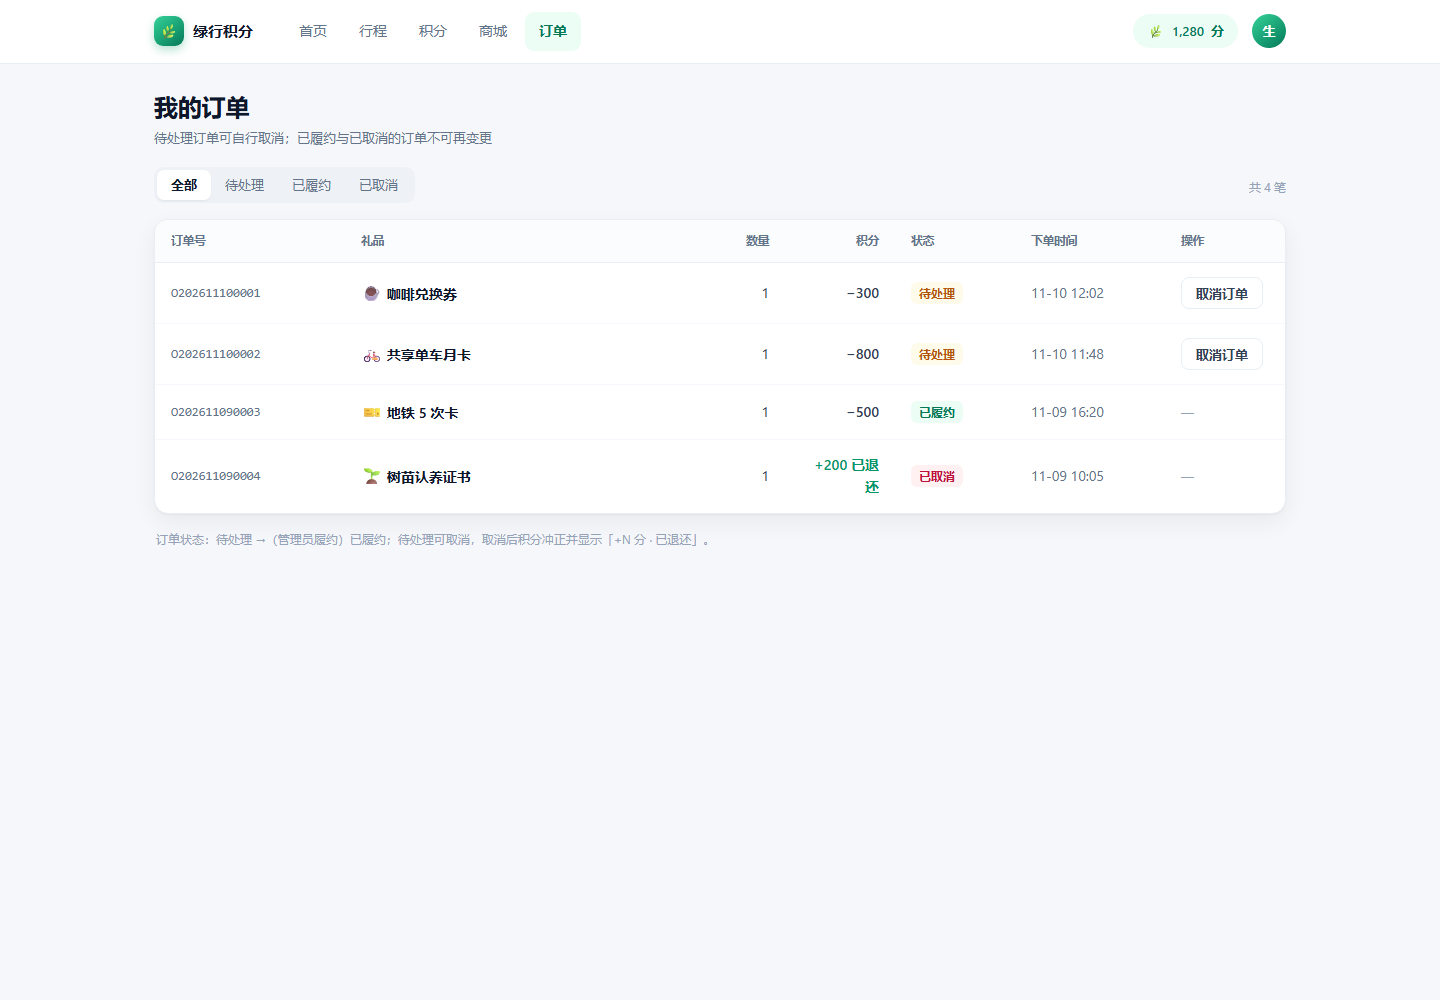
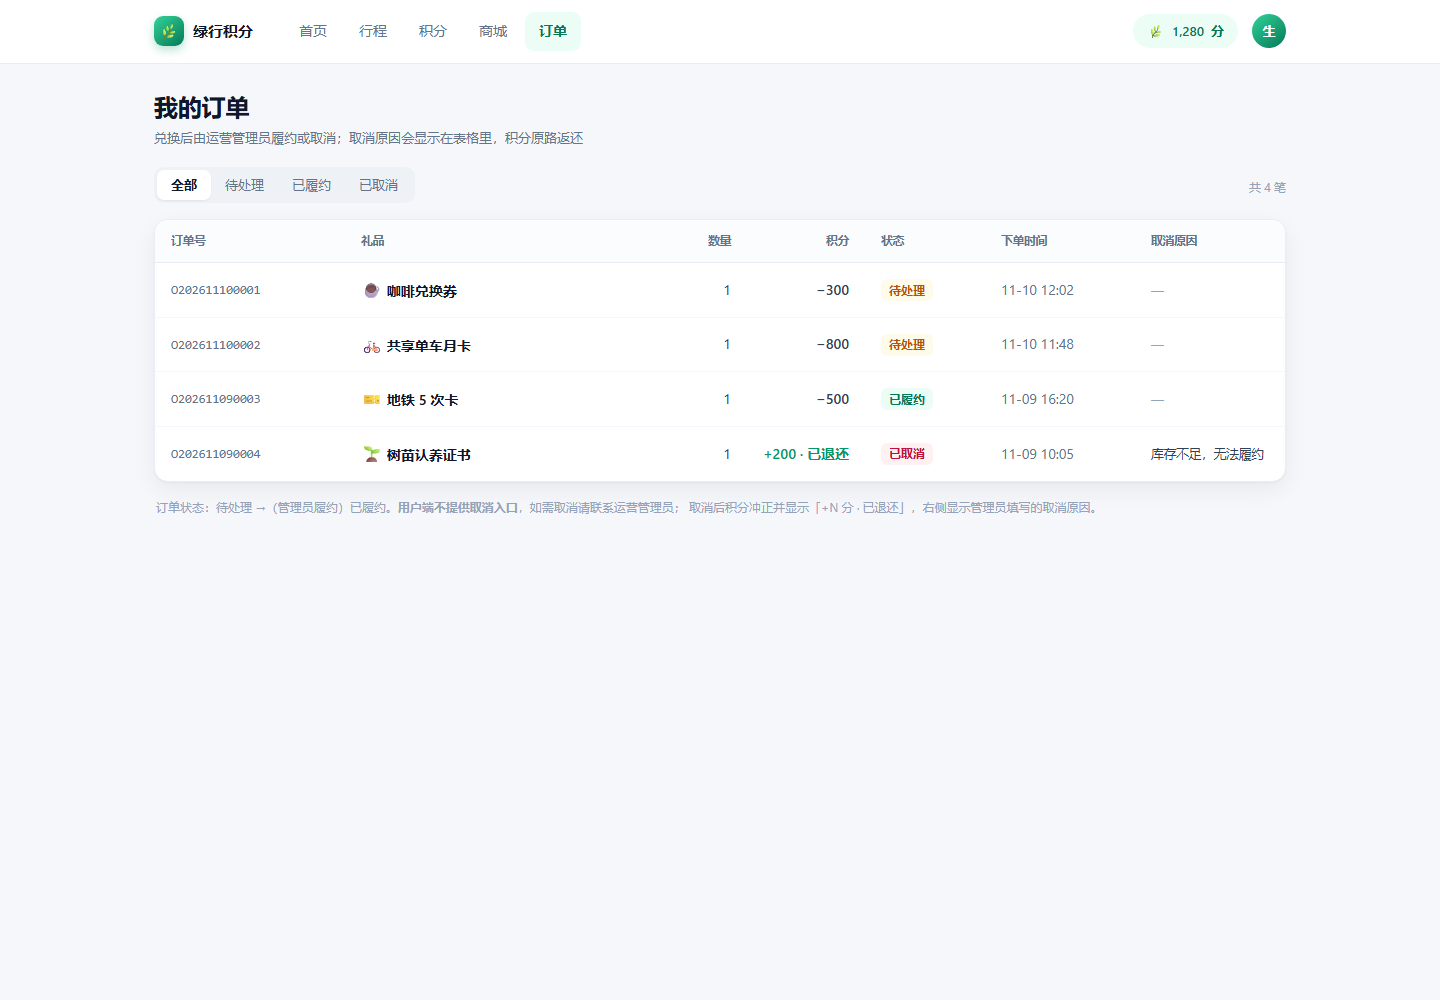
feat(ui): link trip list to detail, unify cancel flow, sync error codes
- trips.html: add 查看明细 entry per row and make 单号 clickable; trip-detail.html reads ?id= and echoes it
- orders (user): remove cancel entry, show admin-recorded cancelReason
- orders (admin): keep reason dropdown, add note input, require note when 其他, persist reason：note
- states.html / 06-states.md / 03-flows.md: POINTS_SHORT 40030, STOCK_SHORT 40901, PRODUCT_OFF_SHELF 40908, TripStatus FAILED, 50001 only for reconciliation; document list→detail loop
- regenerate five-state screenshots

diff --git a/prototype-web/admin/orders.html b/prototype-web/admin/orders.html
@@ -49,7 +49,7 @@
 
     <section class="card tight">
       <table class="table">
-        <thead><tr><th style="width:190px">订单号</th><th>用户</th><th>礼品</th><th class="r" style="width:100px">扣减积分</th><th style="width:110px">状态</th><th style="width:150px">下单时间</th><th style="width:170px">操作</th></tr></thead>
+        <thead><tr><th style="width:190px">订单号</th><th>用户</th><th>礼品</th><th class="r" style="width:100px">扣减积分</th><th style="width:150px">状态</th><th style="width:150px">下单时间</th><th style="width:170px">操作</th></tr></thead>
         <tbody id="rows"></tbody>
       </table>
     </section>
@@ -74,10 +74,10 @@
         <option>用户申请取消</option>
         <option>库存不足，无法履约</option>
         <option>礼品信息有误</option>
-        <option>其他（请在下方说明）</option>
+        <option>其他</option>
       </select>
-      <input class="input" id="reasonText" maxlength="100" placeholder="补充说明（选填，最多 100 字）" style="margin-top:10px">
-      <p class="hint" style="margin-top:8px">取消原因会写入订单详情，用户端可见；未选择原因不能提交。</p>
+      <input class="input" id="reasonText" maxlength="100" placeholder="补充说明（选择「其他」时必填，其余情况选填，最多 100 字）" style="margin-top:10px">
+      <p class="hint" style="margin-top:8px" id="reasonHint">取消原因与补充说明会一起写入订单详情，用户端可见；未选择原因不能提交。</p>
     </div>
   </div>
   <div class="modal-foot">
@@ -103,7 +103,7 @@ function render() {
       <td class="t-strong">${o.user}</td>
       <td>${o.icon} ${o.goods}</td>
       <td class="r num">${o.pts}</td>
-      <td>${stateTag(o.status)}</td>
+      <td>${stateTag(o.status)}${o.status === 'CANCELLED' && o.cancelReason ? `<div class="hint" style="margin-top:6px;max-width:150px;line-height:1.5">${o.cancelReason}</div>` : ''}</td>
       <td class="num" style="color:var(--ink-500)">${o.time}</td>
       <td>${o.status === 'CREATED'
         ? `<button class="btn btn-primary btn-sm" onclick="ask('${o.id}','FULFILLED')">履约</button>
@@ -128,14 +128,23 @@ function ask(id, act) {
   document.getElementById('reasonSel').value = '';
   document.getElementById('reasonText').value = '';
   ok.disabled = false;
+  document.getElementById('reasonHint').textContent = '取消原因与补充说明会一起写入订单详情，用户端可见；未选择原因不能提交。';
   openModal('act');
 }
 document.getElementById('actOk').addEventListener('click', () => {
   if (action === 'CANCELLED') {
-    const reason = document.getElementById('reasonSel').value;
+    const sel = document.getElementById('reasonSel');
+    const txt = document.getElementById('reasonText');
+    const reason = sel.value;
+    const note = txt.value.trim();
     if (!reason) {
-      document.getElementById('reasonSel').focus();
+      sel.focus();
       toast('请先选择取消原因');
+      return;
+    }
+    if (reason === '其他' && !note) {
+      txt.focus();
+      toast('选择「其他」时必须填写补充说明');
       return;
     }
   }
@@ -143,11 +152,24 @@ document.getElementById('actOk').addEventListener('click', () => {
   if (o) {
     o.status = action;
     o.statusName = action === 'FULFILLED' ? '已履约' : '已取消';
-    if (action === 'CANCELLED') o.cancelReason = document.getElementById('reasonSel').value;
+    if (action === 'CANCELLED') {
+      const reason = document.getElementById('reasonSel').value;
+      const note = document.getElementById('reasonText').value.trim();
+      o.cancelReason = note ? `${reason}：${note}` : reason;
+    }
   }
   closeModal('act');
   toast(action === 'FULFILLED' ? '订单已履约' : `订单已取消（${o ? o.cancelReason : ''}），积分已退还`);
   render();
+});
+document.getElementById('reasonSel').addEventListener('change', function () {
+  const isOther = this.value === '其他';
+  const hint = document.getElementById('reasonHint');
+  hint.textContent = isOther
+    ? '选择「其他」时必须填写补充说明，否则不能提交。'
+    : '取消原因与补充说明会一起写入订单详情，用户端可见；未选择原因不能提交。';
+  hint.style.color = isOther ? 'var(--rose-600)' : '';
+  if (isOther) document.getElementById('reasonText').focus();
 });
 document.getElementById('statusSel').addEventListener('change', render);
 document.getElementById('kw').addEventListener('input', render);

diff --git a/prototype-web/app/orders.html b/prototype-web/app/orders.html
@@ -25,7 +25,7 @@
   <div class="page-head">
     <div>
       <h1>我的订单</h1>
-      <p>待处理订单可自行取消；已履约与已取消的订单不可再变更</p>
+      <p>兑换后由运营管理员履约或取消；取消原因会显示在表格里，积分原路返还</p>
     </div>
   </div>
 
@@ -47,7 +47,7 @@
           <th style="width:190px">订单号</th><th>礼品</th>
           <th class="r" style="width:80px">数量</th><th class="r" style="width:110px">积分</th>
           <th style="width:120px">状态</th><th style="width:150px">下单时间</th>
-          <th style="width:120px">操作</th>
+          <th style="width:150px">取消原因</th>
         </tr>
       </thead>
       <tbody id="rows"></tbody>
@@ -55,26 +55,15 @@
   </div>
 
   <p class="hint" style="margin:16px 2px">
-    订单状态：待处理 →（管理员履约）已履约；待处理可取消，取消后积分冲正并显示「+N 分 · 已退还」。
+    订单状态：待处理 →（管理员履约）已履约。<b>用户端不提供取消入口</b>，如需取消请联系运营管理员；
+    取消后积分冲正并显示「+N 分 · 已退还」，右侧显示管理员填写的取消原因。
   </p>
 </main>
-
-<div class="mask" id="mask" onclick="closeModal('cancel')"></div>
-<div class="modal" id="cancel">
-  <h3>取消订单</h3>
-  <p class="m-sub">取消后积分将立即退回，礼品库存同步归还，该操作不可撤销。</p>
-  <div class="confirm-row"><span>订单号</span><b class="mono" id="cancelId">—</b></div>
-  <div class="confirm-row" style="border-bottom:0"><span>退还积分</span><b class="num" style="color:var(--green-600)" id="cancelPts">—</b></div>
-  <div class="modal-foot">
-    <button class="btn btn-secondary" onclick="closeModal('cancel')">保留订单</button>
-    <button class="btn btn-danger" onclick="confirmCancel()">取消订单</button>
-  </div>
-</div>
 
 <div class="toast"></div>
 <script src="../assets/app.js"></script>
 <script>
-let pending = null;
+
 
 function render(status) {
   const rows = MOCK.orders.filter(o => status === 'ALL' || o.status === status);
@@ -84,31 +73,18 @@ function render(status) {
       <td class="mono">${o.id}</td>
       <td><span style="font-size:16px">${o.icon}</span> <span class="t-strong">${o.goods}</span></td>
       <td class="r num">${o.qty}</td>
-      <td class="r num" style="color:${refunded ? 'var(--green-600)' : 'var(--ink-700)'};font-weight:600">
-        ${refunded ? '+' + fmt(o.pts) + ' 已退还' : '−' + fmt(o.pts)}
+      <td class="r num" style="color:${refunded ? 'var(--green-600)' : 'var(--ink-700)'};font-weight:600;white-space:nowrap">
+        ${refunded ? '+' + fmt(o.pts) + ' · 已退还' : '−' + fmt(o.pts)}
       </td>
       <td>${stateTag(o.status)}</td>
       <td class="num" style="color:var(--ink-500)">${o.time}</td>
-      <td>${o.status === 'CREATED'
-        ? `<button class="btn btn-secondary btn-sm" onclick="askCancel('${o.id}', ${o.pts})">取消订单</button>`
+      <td>${o.status === 'CANCELLED'
+        ? `<span style="font-size:12.5px;color:var(--ink-600)">${o.cancelReason || '管理员取消'}</span>`
         : '<span style="color:var(--ink-400);font-size:13px">—</span>'}</td>
     </tr>`;
   }).join('') || '<tr><td colspan="7" class="empty"><span class="ico">📭</span>暂无相关订单</td></tr>';
 }
 
-function askCancel(id, pts) {
-  pending = id;
-  document.getElementById('cancelId').textContent = id;
-  document.getElementById('cancelPts').textContent = '+' + fmt(pts) + ' 分';
-  openModal('cancel');
-}
-function confirmCancel() {
-  closeModal('cancel');
-  const o = MOCK.orders.find(x => x.id === pending);
-  if (o) { o.status = 'CANCELLED'; o.statusName = '已取消'; }
-  toast('订单已取消，积分已退还');
-  render(document.querySelector('#seg .on').dataset.value);
-}
 bindSeg('#seg', render);
 render('ALL');
 </script>

diff --git a/prototype-web/states.html b/prototype-web/states.html
@@ -97,7 +97,7 @@
         <div class="fail-box">
           <div class="ico">⚠</div>
           <h4>加载失败</h4>
-          <p>请求超时（<span class="mono">50001</span>），请检查网络后重试</p>
+          <p>请求超时（网络中断），请检查网络后重试</p>
           <button class="btn btn-secondary btn-sm" onclick="toast('正在重试…')">重新加载</button>
         </div>
       </div>
@@ -134,12 +134,12 @@
       </thead>
       <tbody>
         <tr><td>登录 / 注册</td><td class="c yes">✓</td><td class="c yes">✓</td><td class="c no">—</td><td class="c yes">✓</td><td class="c no">—</td><td>账号或密码错误（<span class="mono">40101</span>）；账号已停用（<span class="mono">40302</span>）</td></tr>
-        <tr><td>首页 / 上报行程</td><td class="c yes">✓</td><td class="c yes">✓</td><td class="c yes">✓</td><td class="c yes">✓</td><td class="c no">—</td><td>还没上报过 → 「今天还没有行程」；核算失败 → 显示 REJECTED 原因</td></tr>
+        <tr><td>首页 / 上报行程</td><td class="c yes">✓</td><td class="c yes">✓</td><td class="c yes">✓</td><td class="c yes">✓</td><td class="c no">—</td><td>还没上报过 → 「今天还没有行程」；核算失败 → 状态 FAILED，显示失败原因</td></tr>
         <tr><td>行程记录</td><td class="c yes">✓</td><td class="c yes">✓</td><td class="c yes">✓</td><td class="c yes">✓</td><td class="c no">—</td><td>无记录 vs 筛选无结果（清除筛选）</td></tr>
         <tr><td>核算明细</td><td class="c yes">✓</td><td class="c yes">✓</td><td class="c no">—</td><td class="c yes">✓</td><td class="c yes">✓</td><td>403 他人行程按 404「行程不存在」</td></tr>
         <tr><td>积分明细</td><td class="c yes">✓</td><td class="c yes">✓</td><td class="c yes">✓</td><td class="c yes">✓</td><td class="c no">—</td><td>无流水 → 「还没有积分变动」</td></tr>
         <tr><td>积分商城</td><td class="c yes">✓</td><td class="c yes">✓</td><td class="c yes">✓</td><td class="c yes">✓</td><td class="c no">—</td><td>全部兑完 → 空态 + 「等补货」；库存不足在卡片内提示</td></tr>
-        <tr><td>礼品详情 / 兑换确认</td><td class="c yes">✓</td><td class="c yes">✓</td><td class="c no">—</td><td class="c yes">✓</td><td class="c no">—</td><td>积分不足 <span class="mono">40901</span>、库存不足 <span class="mono">40908</span>、重复兑换走幂等</td></tr>
+        <tr><td>礼品详情 / 兑换确认</td><td class="c yes">✓</td><td class="c yes">✓</td><td class="c no">—</td><td class="c yes">✓</td><td class="c no">—</td><td>积分不足 <span class="mono">40030</span>、库存不足 <span class="mono">40901</span>、商品已下架 <span class="mono">40908</span>、重复兑换走幂等</td></tr>
         <tr><td>我的订单</td><td class="c yes">✓</td><td class="c yes">✓</td><td class="c yes">✓</td><td class="c yes">✓</td><td class="c no">—</td><td>无订单 → 「还没有兑换记录」</td></tr>
         <tr><td>个人资料</td><td class="c yes">✓</td><td class="c yes">✓</td><td class="c no">—</td><td class="c yes">✓</td><td class="c no">—</td><td>保存失败保留已填内容，标红出错字段</td></tr>
         <tr><td>运营概览</td><td class="c yes">✓</td><td class="c yes">✓</td><td class="c yes">✓</td><td class="c yes">✓</td><td class="c yes">✓</td><td>当天无数据 → 图表显示 0 并提示「今日还没有数据」</td></tr>

diff --git a/prototype-web/app/trip-detail.html b/prototype-web/app/trip-detail.html
@@ -46,7 +46,7 @@
   <div class="page-head">
     <div>
       <h1>核算明细</h1>
-      <p class="mono" style="font-size:12.5px;color:var(--ink-400)">单号 T202611100001 · 公交出行</p>
+      <p class="mono" id="subLine" style="font-size:12.5px;color:var(--ink-400)">单号 T202611100001 · 公交出行</p>
     </div>
     <span class="tag tag-green" style="height:26px">已入账</span>
   </div>
@@ -137,12 +137,18 @@
         <p style="font-size:12.5px;color:var(--ink-500);margin:0 0 10px">这三种情况页面必须给出不同措辞，不能都显示「加载失败」：</p>
         <div class="kv" style="grid-template-columns:1fr;font-size:12.5px">
           <div class="v" style="font-weight:400">核算中 → <b>状态 PENDING</b>，显示「核算中，稍后刷新」而不是积分 0</div>
-          <div class="v" style="font-weight:400">核算失败 → <b>状态 REJECTED</b>，显示原因和「重新上报」按钮</div>
-          <div class="v" style="font-weight:400">不存在/无权 → <b>404 / 403</b>，不暴露别人的行程号</div>
+          <div class="v" style="font-weight:400">核算失败 → <b>状态 FAILED</b>：显示失败原因和「重新上报」按钮；同步核算失败时接口直接返回错误，不留下半成品行程</div>
+          <div class="v" style="font-weight:400">不存在/无权 → <b>404 / 403</b>（<span class="mono">40401 / 40301</span>），不暴露别人的行程号</div>
         </div>
       </section>
     </div>
   </div>
 </main>
+<script>
+(function () {
+  var id = new URLSearchParams(location.search).get('id');
+  if (id) document.getElementById('subLine').textContent = '单号 ' + id + ' · 公交出行';
+})();
+</script>
 </body>
 </html>

diff --git a/prototype-web/app/trips.html b/prototype-web/app/trips.html
@@ -61,7 +61,7 @@
         <tr>
           <th style="width:110px">日期</th><th style="width:110px">出行方式</th>
           <th class="r" style="width:100px">里程</th><th class="r" style="width:130px">减排量</th>
-          <th class="r" style="width:100px">积分</th><th>规则版本</th><th style="width:160px">单号</th>
+          <th class="r" style="width:100px">积分</th><th>规则版本</th><th style="width:170px">单号</th><th style="width:110px;text-align:right">明细</th>
         </tr>
       </thead>
       <tbody id="rows"></tbody>
@@ -82,8 +82,9 @@ function render(mode) {
       <td class="r num">${kg(t.red)} kg</td>
       <td class="r num" style="color:var(--green-600);font-weight:600">+${t.pts}</td>
       <td class="mono">${t.rule}</td>
-      <td class="mono">${t.id}</td>
-    </tr>`).join('') || '<tr><td colspan="7" class="empty">没有符合条件的行程</td></tr>';
+      <td class="mono"><a href="trip-detail.html?id=${t.id}" style="color:var(--green-700)">${t.id}</a></td>
+      <td class="r"><a class="btn btn-secondary btn-sm" href="trip-detail.html?id=${t.id}" style="white-space:nowrap">查看明细</a></td>
+    </tr>`).join('') || '<tr><td colspan="8" class="empty">没有符合条件的行程，试试切换出行方式</td></tr>';
 }
 bindSeg('#modeSeg', render);
 render('ALL');

diff --git a/prototype-web/assets/app.js b/prototype-web/assets/app.js
@@ -30,7 +30,7 @@ const MOCK = {
     { id: 'O202611100001', goods: '咖啡兑换券', icon: '☕', qty: 1, pts: 300, status: 'CREATED',   statusName: '待处理', time: '11-10 12:02', user: '张生阳' },
     { id: 'O202611100002', goods: '共享单车月卡', icon: '🚲', qty: 1, pts: 800, status: 'CREATED',  statusName: '待处理', time: '11-10 11:48', user: '魏嘉鑫' },
     { id: 'O202611090003', goods: '地铁 5 次卡', icon: '🎫', qty: 1, pts: 500, status: 'FULFILLED', statusName: '已履约', time: '11-09 16:20', user: '郭浚文' },
-    { id: 'O202611090004', goods: '树苗认养证书', icon: '🌱', qty: 1, pts: 200, status: 'CANCELLED', statusName: '已取消', time: '11-09 10:05', user: '李金平' }
+    { id: 'O202611090004', goods: '树苗认养证书', icon: '🌱', qty: 1, pts: 200, status: 'CANCELLED', statusName: '已取消', time: '11-09 10:05', user: '李金平', cancelReason: '库存不足，无法履约' }
   ],
   rules: [
     { v: 'R-2026-11-BUS', mode: '公交 🚌', base: 0.200, factor: 0.050, ratio: 10, from: '2026-11-01', to: '', state: '生效中' },

diff --git a/docs/ui/06-states.md b/docs/ui/06-states.md
@@ -20,7 +20,7 @@
 | 加载中 | 骨架屏；分页刷新用顶部细进度条 | 「加载中…」文字配合空白页；转圈超过 8 秒 |
 | 空（首次） | 「还没有行程记录」+「去上报行程」 | 「暂无数据」「null」「[]」 |
 | 空（筛选） | 「没有符合条件的行程」+「清除筛选」 | 与首次空用同一句文案 |
-| 失败 | 「加载失败 · 请求超时（50001）· 重新加载」 | 显示成空列表；只弹一个「系统异常」 |
+| 失败 | 「加载失败 · 请求超时，可重试」 | 显示成空列表；只弹一个「系统异常」 |
 | 无权限 | 「当前账号是普通用户，管理端仅对运营管理员开放（40301）」+ 出口 | 只显示 403 或直接跳走不解释 |
 
 判定口径：**空 = 请求成功但没数据；失败 = 请求没成功**。两者视觉与文案都不能混，否则等于把故障报成「没数据」。
@@ -30,12 +30,12 @@
 | 页面 | 正常 | 加载 | 空 | 失败 | 无权限 | 空/失败的具体措辞 |
 |------|:--:|:--:|:--:|:--:|:--:|------|
 | 登录 / 注册 | ✓ | ✓ | — | ✓ | — | 账号或密码错误（40101）；账号已停用（40302） |
-| 首页 / 上报行程 | ✓ | ✓ | ✓ | ✓ | — | 「今天还没有行程」；核算失败显示 REJECTED 原因 |
+| 首页 / 上报行程 | ✓ | ✓ | ✓ | ✓ | — | 「今天还没有行程」；核算失败 → 状态 FAILED，显示失败原因 |
 | 行程记录 | ✓ | ✓ | ✓ | ✓ | — | 无记录 vs 筛选无结果（清除筛选） |
 | 核算明细 | ✓ | ✓ | — | ✓ | ✓ | 他人行程按 404「行程不存在」，不暴露存在性 |
 | 积分明细 | ✓ | ✓ | ✓ | ✓ | — | 「还没有积分变动」 |
 | 积分商城 | ✓ | ✓ | ✓ | ✓ | — | 全部兑完 → 空态 +「等补货」；库存不足在卡片内提示 |
-| 礼品详情 / 兑换 | ✓ | ✓ | — | ✓ | — | 积分不足 40901、库存不足 40908、重复提交走幂等 |
+| 礼品详情 / 兑换 | ✓ | ✓ | — | ✓ | — | 积分不足 40030、库存不足 40901、商品已下架 40908、重复提交走幂等 |
 | 我的订单 | ✓ | ✓ | ✓ | ✓ | — | 「还没有兑换记录」 |
 | 个人资料 | ✓ | ✓ | — | ✓ | — | 保存失败保留已填内容，标红出错字段 |
 | 运营概览 | ✓ | ✓ | ✓ | ✓ | ✓ | 当天无数据 → 图表显示 0 并提示 |
@@ -49,7 +49,7 @@
 
 ### 4.1 核算明细（`app/trip-detail.html`）
 - 必须展示三步计算过程与规则快照（`ruleVersion / baseFactor / modeFactor / pointsRatio`），否则用户无法自证积分正确。
-- `PENDING` 显示「核算中，稍后刷新」，不能显示 0 分；`REJECTED` 显示原因 +「重新上报」。
+- `PENDING` 显示「核算中，稍后刷新」，不能显示 0 分；`FAILED` 显示原因 +「重新上报」。
 - 规则改动不追溯：页面写明「按入账当时的规则版本计算」。
 
 ### 4.2 取消原因必填（`admin/orders.html`）

diff --git a/docs/ui/03-flows.md b/docs/ui/03-flows.md
@@ -50,15 +50,17 @@
 ```
 
 **防重复**：同一 `clientTripId` + 幂等键只允许一条 PENDING/POINTED 记录（BR-06）。
-**状态机**：`PENDING → POINTED`（成功）｜`PENDING → REJECTED`（规则不通过，附原因）。
+**状态机**：`PENDING → POINTED`（成功）｜`PENDING → FAILED`（规则不通过，附原因）。
 
 ## 3. 行程记录与详情
 
 ```
 [行程列表] 月份切换 + 方式筛选 + 状态筛选
- ├ 列表行点击 → 右侧 Drawer 显示详情（单号、起止、里程、减免、积分、规则版本）
+ ├ 每行「查看明细」/ 单号链接 → `app/trip-detail.html?id=<tripId>` 核算明细页（单号、起止、里程、减免、积分、规则版本、关联流水、处理时间线）
  └ 筛选无结果 → 空态「没有符合条件的行程」+「清除筛选」
 ```
+
+核算明细页由列表进入后回填单号（`?id=` 读 query），顶部「← 返回行程记录」回列表，保证「上报 → 行程记录 → 核算明细 → 返回列表」闭环。
 
 列表默认按开始时间倒序，分页 20 条；顶部三个汇总数字随筛选条件联动（本月行程/减排/积分）。
 
@@ -102,7 +104,7 @@
  └ 取消（仅 CREATED 可点）→ 确认框 → 状态变「已取消」并冲正积分、归还库存
 ```
 
-**状态机**：`CREATED →(履约) FULFILLED`｜`CREATED →(取消) CANCELLED`；后两个状态不可逆，按钮置灰并提示「已结束的订单不可再操作」。
+**状态机**：`CREATED → FULFILLED`｜`CREATED → CANCELLED`；后两个状态不可逆，按钮置灰并提示「已结束的订单不可再操作」。
 
 ## 7. 管理端：新建碳核算规则（UC-09）
 
